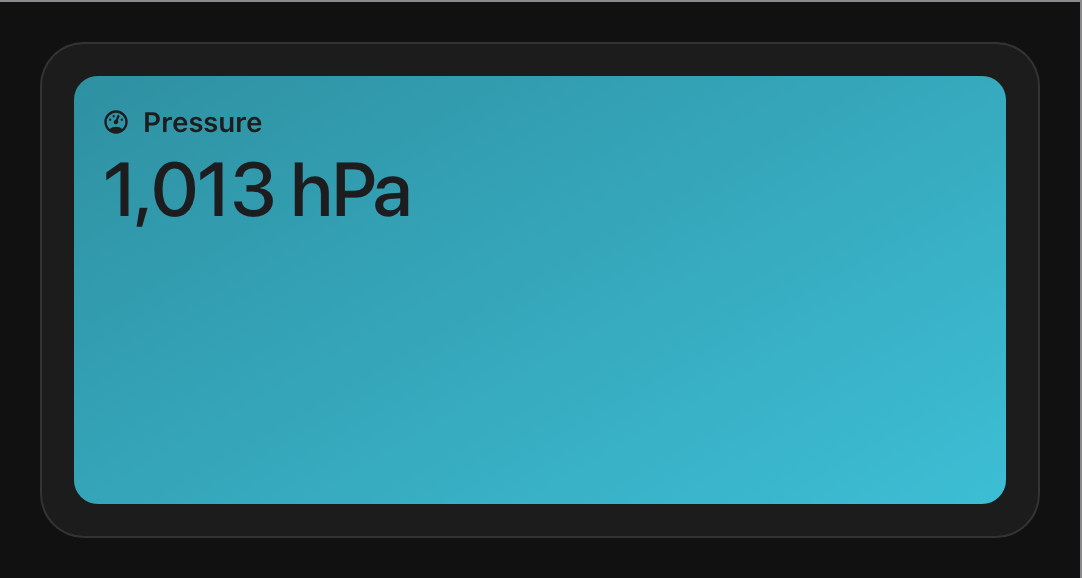
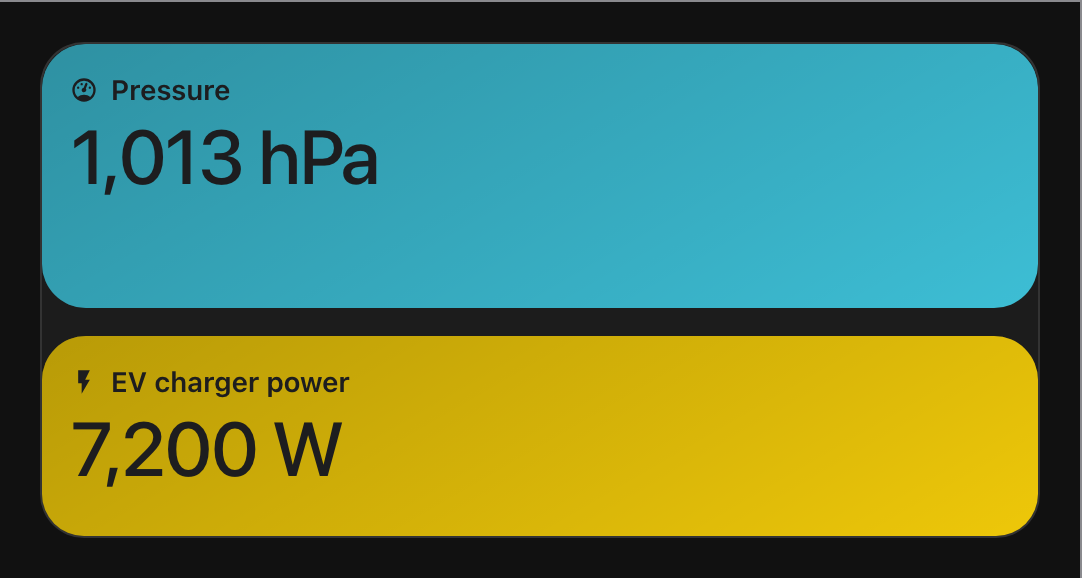
fix: durable contrast test and true full-bleed for the complication card
Two Important findings from Task 9's review:

- The tint-to-ink contrast decision (onTintVar) had no lasting verification
  beyond an interactive probe in a since-closed session. Extracted it from
  complication-card.ts into tint.ts as a pure, exported function and added a
  unit test asserting the four failing tints (yellow, orange, green, teal)
  get the fixed dark ink and the other six keep white, with the measured
  ratios recorded in the comment. Added a yellow-tint fixture
  (sensor.demo_ev_charger_power) and included it in the bleed screenshot,
  since no existing mock entity reached yellow.

- rectangular-bleed did not bleed: ha-card's padding and the block's inner
  radius kept the tint a rounded panel floating inside the card. Removed the
  padding for this style only (ha-card.rectangular-bleed) and gave the block
  the card's own outer radius (--cw-radius) instead of the inner one, so its
  corners agree with the card it fills. Stacked blocks stay distinguishable
  via the existing grid gap between cells, unchanged. layout.ts's floorsFor
  still charges 2*INSET for this style, which now makes its floor larger
  than the CSS strictly needs -- the same generous-not-wrong direction
  ASSUMED_SECTION_WIDTH already errs in, so left untouched.

Screenshots regenerated; the other four complication styles are pixel-
identical, confirming the change is scoped to rectangular-bleed alone.

diff --git a/src/cards/complication/complication-card.ts b/src/cards/complication/complication-card.ts
@@ -18,7 +18,7 @@ import {
   type ComplicationEntityConfig,
 } from './model'
 import { DEFAULT_STYLE, isRectangular, type ComplicationStyle } from './style'
-import { tintVar, type TintName } from './tint'
+import { onTintVar, tintVar, type TintName } from './tint'
 
 export const COMPLICATION_CARD_TAG = 'cupertino-widgets-complication'
 
@@ -45,28 +45,6 @@ export interface ComplicationCardConfig extends CupertinoCardConfig {
 
 /** Not localised: HA has no string for it, and the library's own words are its own. */
 const NO_ENTITIES = 'No Entities'
-
-/**
- * White text over the tint, except where the tint is too light for white to sit on.
- *
- * `rectangular-header`'s strip and `rectangular-bleed`'s whole card both paint their
- * content straight onto `item.tint`, which the ring and inline faces never do — there
- * the tint is a thin arc or an icon, not the surface under a paragraph. Checked against
- * WCAG's contrast formula rather than by eye, against both the light and dark value of
- * every tint in `tokens.ts`: white on `--cw-yellow` comes out at 1.4:1 in both themes,
- * which fails even the 3:1 floor a large glyph is held to, and `--cw-orange`,
- * `--cw-green` and `--cw-teal` are not far behind at 2.0–2.6:1. The other six tints —
- * `red` clears 3:1 by a hair, `blue`/`indigo`/`purple`/`pink` clear it comfortably, and
- * `accent` is the theme's own colour and unknowable here — keep white.
- *
- * The four that don't get `#1d1d1f`, a fixed near-black, rather than `var(--cw-label)`:
- * `--cw-label` is white in dark mode, which is exactly the failure this function exists
- * to route around, and unlike the label these four tint values barely move between
- * themes (`--cw-yellow` is #ffcc00 light, #ffd60a dark) — a hue that stays light in both
- * themes needs a fix that stays dark in both themes, not one that tracks the theme.
- */
-const NEEDS_DARK_ON_TINT = new Set<TintName>(['yellow', 'orange', 'green', 'teal'])
-const onTintVar = (tint: TintName): string => (NEEDS_DARK_ON_TINT.has(tint) ? '#1d1d1f' : '#fff')
 
 /**
  * The complication card: any entity, drawn as a watch complication.
@@ -97,6 +75,22 @@ class CupertinoComplicationCard extends CupertinoCard<ComplicationCardConfig> {
         box-sizing: border-box;
         padding: var(--cw-inset);
         display: flex;
+      }
+
+      /* rectangular-bleed only: the tint has to reach the card's own rounded corners, the
+         way the Weather complication it copies does, so this is the one style that draws
+         outside the padding every other style sits inside. The class comes off style
+         itself, same as .grid's own class -- see .cell.rectangular-bleed below for why its
+         border-radius has to change to match once the padding that used to hold it away
+         from the corner is gone.
+
+         layout.ts's floorsFor still charges 2*INSET for every rectangular style, bleed
+         included -- it has no reason to special-case this one. That makes the floor it
+         returns for a bleed card larger than what the CSS actually needs by 2*INSET, the
+         same direction ASSUMED_SECTION_WIDTH already errs in: a generous floor, not a
+         wrong one, so the Layout tab still never offers a box the card does not fit. */
+      ha-card.rectangular-bleed {
+        padding: 0;
       }
 
       .grid {
@@ -391,11 +385,25 @@ class CupertinoComplicationCard extends CupertinoCard<ComplicationCardConfig> {
          from glowing in dark mode, and it is a card-local overlay rather than a change to
          --cw-surface: full-bleed is the one face in the library that replaces the user's
          theme surface with the tint on purpose, and that is a once-per-cell decision this
-         style makes for itself, not something the rest of the card should inherit. */
+         style makes for itself, not something the rest of the card should inherit.
+
+         border-radius: var(--cw-radius), not the inner radius .cell.block set above (this
+         rule wins the tie: same two-class specificity, later in the sheet). --cw-radius-
+         inner is right for a panel that sits inside the card's own padding, which is what
+         every other rectangular face still is; with ha-card's padding removed above, this
+         one block IS the card's face, so its corners have to agree with the outer radius
+         ha-card itself draws with, or the two curves show as a mismatched notch at every
+         corner. Stacked blocks each keep all four corners rounded and stay separated by
+         the grid's own gap between cells (unchanged, still var(--cw-comp-gap)) rather than
+         a card-coloured margin of their own: every block spans full width, so its left and
+         right edges always meet ha-card's, while only the first block's top edge and the
+         last block's bottom edge meet ha-card's top and bottom -- an interior block floats
+         between two gaps, rounded on all four corners like the single-entity case. */
       .cell.rectangular-bleed {
         background-image: linear-gradient(150deg, var(--cw-comp-tint), var(--cw-comp-tint));
         background-color: var(--cw-comp-tint);
         padding: calc(14px * var(--cw-scale));
+        border-radius: var(--cw-radius);
         position: relative;
       }
 
@@ -726,7 +734,7 @@ class CupertinoComplicationCard extends CupertinoCard<ComplicationCardConfig> {
     )
 
     return html`
-      <ha-card>
+      <ha-card class=${style}>
         <div
           class="grid ${style}"
           style=${`--cw-comp-columns:${pack.columns}; --cw-comp-ring:${pack.ring}px`}

diff --git a/dev/complication-entities.ts b/dev/complication-entities.ts
@@ -43,6 +43,7 @@ export const TARGET = 'number.demo_target'
 export const WASHING_MACHINE = 'sensor.demo_washing_machine'
 export const LONG_NAME = 'sensor.demo_extremely_long_entity_name'
 export const OFFLINE = 'sensor.demo_offline'
+export const EV_CHARGER = 'sensor.demo_ev_charger_power'
 
 /**
  * The mock installation's entities, one per branch `range.ts`, `tint.ts` and `model.ts` can
@@ -97,6 +98,17 @@ export const COMPLICATION_STATES: readonly HassEntity[] = [
   entity(OFFLINE, 'unavailable', {
     friendly_name: 'Offline sensor',
   }),
+  // yellow — tint.ts's BY_DEVICE_CLASS maps power/current/voltage/illuminance and the
+  // light domain to yellow. None of the branch-chosen states above land there, and
+  // yellow is the one tint whose white-on-tint contrast fails hardest (1.4-1.5:1, see
+  // onTintVar in tint.ts), so it is worth a fixture of its own to reach it in the
+  // showcase and the shipped screenshots rather than leaving it computationally-checked
+  // only.
+  entity(EV_CHARGER, '7200', {
+    friendly_name: 'EV charger power',
+    device_class: 'power',
+    unit_of_measurement: 'W',
+  }),
 ]
 
 /**
@@ -109,7 +121,10 @@ export const COMPLICATION_STATES: readonly HassEntity[] = [
  * to show a card sizing itself up to fit rather than one hiding a device. `word` and
  * `long-name` are this card's two text failure modes: a reading that is not a number, and a
  * name too long to caption. `unavailable` is the card's unhappy path, same as the battery
- * card's `doorbell`.
+ * card's `doorbell`. `yellow` exists for one reason only: it is the single entity in this
+ * file that tints yellow, the worst of the four contrast cases `onTintVar` (`tint.ts`)
+ * routes around — nothing else here carries a `power`/`current`/`voltage`/`illuminance`
+ * device class or sits in the `light` domain.
  */
 export const ENTITY_SETS = {
   gauge: [PHONE_BATTERY],
@@ -126,6 +141,7 @@ export const ENTITY_SETS = {
   word: [WASHING_MACHINE],
   'long-name': [LONG_NAME],
   unavailable: [OFFLINE],
+  yellow: [EV_CHARGER],
 } as const
 
 export type EntitySetName = keyof typeof ENTITY_SETS

diff --git a/src/cards/complication/tint.ts b/src/cards/complication/tint.ts
@@ -115,3 +115,27 @@ export const tintFor = (entity: HassEntity): TintName => {
  * the complication sits on the dashboard rather than only at the moment it was drawn.
  */
 export const tintVar = (tint: TintName): string => `var(--cw-${tint})`
+
+/**
+ * White text over the tint, except where the tint is too light for white to sit on.
+ *
+ * Two faces paint content straight onto `tintVar(tint)` rather than drawing it as a thin
+ * arc or an icon: `rectangular-header`'s strip and `rectangular-bleed`'s whole card. Both
+ * need an ink that stays legible on every one of the ten tints, in both themes, and white
+ * is not that ink for all ten. Checked against WCAG's contrast formula rather than by eye,
+ * against both the light and dark value of every tint in `tokens.ts`: white on
+ * `--cw-yellow` comes out at 1.4-1.5:1 (light/dark), which fails even the 3:1 floor a
+ * large glyph is held to, and `--cw-orange`, `--cw-green` and `--cw-teal` are not far
+ * behind at 2.0-2.6:1. The other six tints -- `red` clears 3:1 by a hair at 3.41-3.55:1,
+ * `blue`/`indigo`/`purple`/`pink` clear it comfortably, and `accent` is the theme's own
+ * colour and unknowable here -- keep white.
+ *
+ * The four that don't get `#1d1d1f`, a fixed near-black, rather than `var(--cw-label)`:
+ * `--cw-label` is white in dark mode, which is exactly the failure this function exists
+ * to route around, and unlike the label these four tint values barely move between themes
+ * (`--cw-yellow` is #ffcc00 light, #ffd60a dark) -- a hue that stays light in both themes
+ * needs a fix that stays dark in both themes, not one that tracks the theme.
+ */
+const NEEDS_DARK_ON_TINT = new Set<TintName>(['yellow', 'orange', 'green', 'teal'])
+export const onTintVar = (tint: TintName): string =>
+  NEEDS_DARK_ON_TINT.has(tint) ? '#1d1d1f' : '#fff'

diff --git a/src/cards/complication/tint.test.ts b/src/cards/complication/tint.test.ts
@@ -1,7 +1,7 @@
 import { describe, expect, it } from 'vitest'
 
 import type { HassEntity } from '../../core/types/ha'
-import { tintFor, tintVar } from './tint'
+import { onTintVar, tintFor, tintVar } from './tint'
 
 const entity = (entity_id: string, attributes: Record<string, unknown> = {}): HassEntity => ({
   entity_id,
@@ -44,5 +44,30 @@ describe('tintVar', () => {
   it('names the token, so a card never writes a colour of its own', () => {
     expect(tintVar('orange')).toBe('var(--cw-orange)')
     expect(tintVar('accent')).toBe('var(--cw-accent)')
+  })
+})
+
+describe('onTintVar', () => {
+  // Measured with WCAG's contrast formula against both the light and dark value of every
+  // tint in tokens.ts: white on these four falls below even the 3:1 floor a large glyph is
+  // held to (yellow 1.4-1.5:1, orange/green/teal 2.0-2.6:1 in both themes), so they get a
+  // fixed near-black ink instead. This is the one durable check of that measurement --
+  // see onTintVar's own comment for the rest of the reasoning.
+  it('gives the four tints white fails on a fixed dark ink', () => {
+    expect(onTintVar('yellow')).toBe('#1d1d1f')
+    expect(onTintVar('orange')).toBe('#1d1d1f')
+    expect(onTintVar('green')).toBe('#1d1d1f')
+    expect(onTintVar('teal')).toBe('#1d1d1f')
+  })
+
+  // red clears 3:1 by a hair (3.41-3.55:1); the rest clear it comfortably, and accent is
+  // the theme's own colour and unknowable here.
+  it('keeps white everywhere else', () => {
+    expect(onTintVar('red')).toBe('#fff')
+    expect(onTintVar('blue')).toBe('#fff')
+    expect(onTintVar('indigo')).toBe('#fff')
+    expect(onTintVar('purple')).toBe('#fff')
+    expect(onTintVar('pink')).toBe('#fff')
+    expect(onTintVar('accent')).toBe('#fff')
   })
 })

diff --git a/dev/ha-stubs.ts b/dev/ha-stubs.ts
@@ -14,6 +14,7 @@ import {
   mdiCellphone,
   mdiDoorbellVideo,
   mdiEye,
+  mdiFlash,
   mdiGauge,
   mdiHeadphones,
   mdiHelpCircleOutline,
@@ -198,13 +199,15 @@ const ICONS: Record<string, string> = {
   // `model.ts`'s `iconFor`: a thermometer, a humidity gauge, a pressure gauge, a washing
   // machine, `number`'s generic glyph, and `mdi:eye` — the fallback `iconFor` itself
   // returns for a domain neither of its tables recognises, which the water tank and the
-  // long-name sensor both fall through to.
+  // long-name sensor both fall through to. `mdi:flash` is `device_class: power`'s own
+  // entry in the same table, for the yellow-tint fixture.
   'mdi:thermometer': mdiThermometer,
   'mdi:water-percent': mdiWaterPercent,
   'mdi:gauge': mdiGauge,
   'mdi:washing-machine': mdiWashingMachine,
   'mdi:ray-vertex': mdiRayVertex,
   'mdi:eye': mdiEye,
+  'mdi:flash': mdiFlash,
 }
 
 /**

diff --git a/dev/shots.ts b/dev/shots.ts
@@ -37,6 +37,7 @@ import { columnsToPx, layoutFromBox, rowsToPx } from '../src/core/size'
 import type { LovelaceCard, LovelaceCardConfig } from '../src/core/types/ha'
 import { deviceSet } from './battery-devices'
 import {
+  EV_CHARGER,
   LOUNGE_HUMIDITY,
   LOUNGE_TEMPERATURE,
   PHONE_BATTERY,
@@ -222,9 +223,10 @@ const SHOTS: readonly Shot[] = [
   },
   {
     name: 'complication-bleed-dark',
-    caption: 'medium, dark: full-bleed, the tint fixed to the entity rather than the reading',
+    caption:
+      'medium, dark: full-bleed, the tint reaching the edges of the card, stacked blocks kept apart by the grid gap between them',
     tag: COMPLICATION_CARD_TAG,
-    config: complicationShot([PRESSURE], 'rectangular-bleed'),
+    config: complicationShot([PRESSURE, EV_CHARGER], 'rectangular-bleed'),
     columns: 12,
     rows: 4,
     theme: 'dark',
